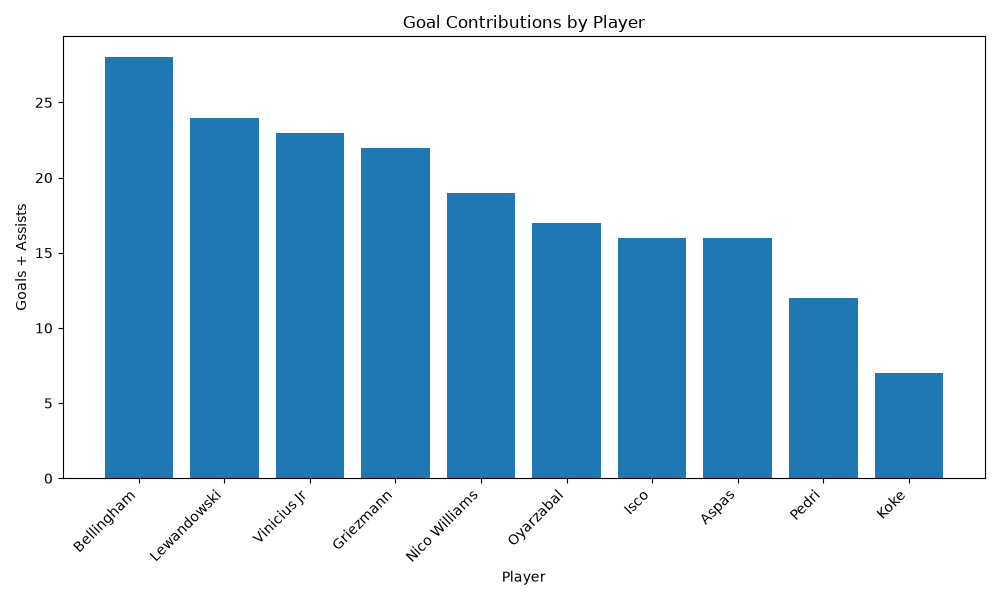
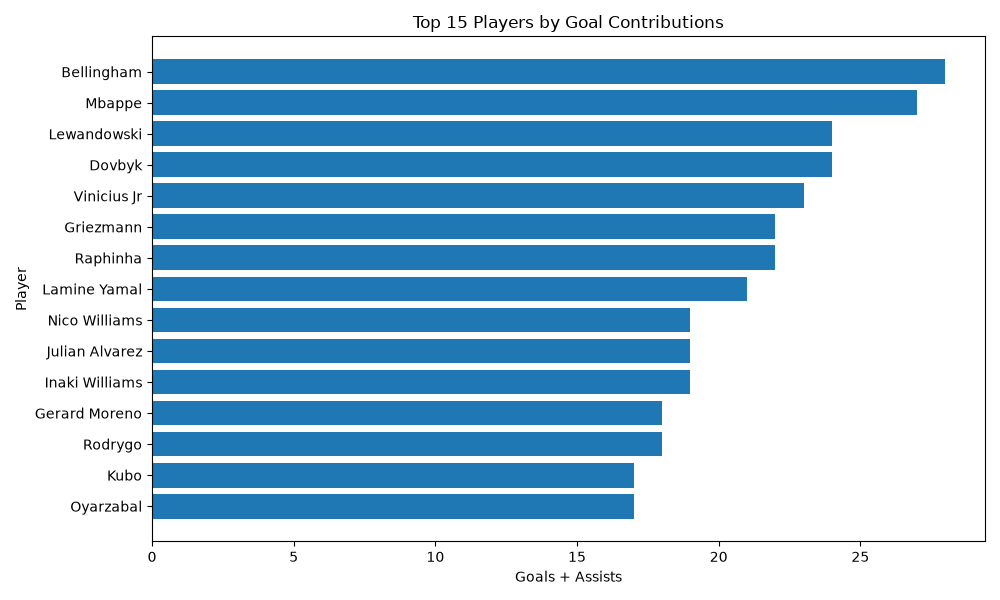
Improve charts readability with top 15 players

diff --git a/main.py b/main.py
@@ -3,7 +3,12 @@ import matplotlib.pyplot as plt
 
 
 def main():
-    players = pd.read_csv("data/players.csv")
+    players = pd.read_csv("data/players.csv", skipinitialspace=True)
+
+    players.columns = players.columns.str.strip()
+
+    for column in players.select_dtypes(include="object").columns:
+        players[column] = players[column].str.strip()
 
     print("=== Football Data Analysis ===")
     print()
@@ -63,30 +68,39 @@ def main():
     team_summary.to_csv("outputs/team_summary.csv")
     print("Team summary saved as outputs/team_summary.csv")
     print()
-
-    # First chart: total goal contributions
+    top_15_players = top_players.head(15)
+    # First chart: total goals contributions
     plt.figure(figsize=(10, 6))
-    plt.bar(top_players["name"], top_players["goal_contributions"])
-    plt.title("Goal Contributions by Player")
-    plt.xlabel("Player")
-    plt.ylabel("Goals + Assists")
-    plt.xticks(rotation=45, ha="right")
+    #Mejorar hacer barras Horizontales
+    plt.barh(top_15_players["name"], top_15_players["goal_contributions"])
+    plt.title("Top 15 Players by Goal Contributions")
+    plt.xlabel("Goals + Assists")
+    plt.ylabel("Player")
+    plt.gca().invert_yaxis()
     plt.tight_layout()
     plt.savefig("outputs/goal_contributions.png")
-    
-    print("Chart saved as goal_contributions.png")
+    plt.close()
 
-    # Second chart: goal contributions per 90 minutes
+    print("Chart saved as outputs/goal_contributions.png")
+
+
+
+
+    top_15_players_per_90 = top_players_per_90.head(15)
+
     plt.figure(figsize=(10, 6))
-    plt.bar(top_players_per_90["name"], top_players_per_90["goal_contributions_per_90"])
-    plt.title("Goal Contributions per 90 Minutes")
-    plt.xlabel("Player")
-    plt.ylabel("Goal Contributions per 90")
-    plt.xticks(rotation=45, ha="right")
+    plt.barh(
+        top_15_players_per_90["name"],
+        top_15_players_per_90["goal_contributions_per_90"]
+    )
+    #Second chart: goal contributions per 90 minutes
+    plt.title("Top 15 Players by Goal Contributions per 90 Minutes")
+    plt.xlabel("Goal Contributions per 90")
+    plt.ylabel("Player")
+    plt.gca().invert_yaxis()
     plt.tight_layout()
     plt.savefig("outputs/goal_contributions_per_90.png")
-
-    print("Chart saved as goal_contributions_per_90.png")
+    plt.close()
 
 
 if __name__ == "__main__":